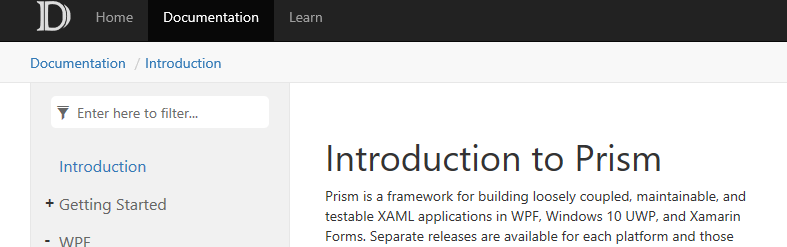
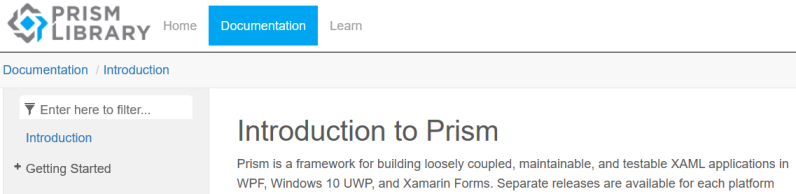
Formatting and updated docs image

diff --git a/docs/xamarin-forms/application-lifecycle.md b/docs/xamarin-forms/application-lifecycle.md
@@ -19,25 +19,25 @@ The first thing you have to do to is to implement the `IApplicationLifecycleAwar
 The following is an example of a ViewModel that implements `IApplicationLifecycleAware`. 
 
 ```csharp
- public class ViewModelExample : ViewModelBase, IApplicationLifecycleAware
+public class ViewModelExample : ViewModelBase, IApplicationLifecycleAware
+{
+    protected INavigationService NavigationService { get; private set; }
+
+    public ViewModelExample(INavigationService navigationService)
     {
-        protected INavigationService NavigationService { get; private set; }
-
-        public ViewModelExample(INavigationService navigationService)
-        {
-            NavigationService = navigationService;
-        }
-
-        public void OnResume()
-        {
-            //Restore the state of your ViewModel.
-        }
-
-        public  void OnSleep()
-        {
-            //Save the state of your ViewModel.
-        }
+        NavigationService = navigationService;
     }
+
+    public void OnResume()
+    {
+        //Restore the state of your ViewModel.
+    }
+
+    public  void OnSleep()
+    {
+        //Save the state of your ViewModel.
+    }
+}
 ```
 
 ## How to handle ALM at Application level
@@ -45,43 +45,41 @@ You can handle ALM events at the __Application__ level by overriding the `OnSlee
 The following is an example of an `App` class with ALM management.
 
 ```csharp
-    public partial class App : PrismApplication
+public partial class App : PrismApplication
+{
+  
+    public App() : this(null) { }
+
+    public App(IPlatformInitializer initializer) : base(initializer) { }
+
+    protected override async void OnInitialized()
     {
-      
-        public App() : this(null) { }
+        InitializeComponent();
 
-        public App(IPlatformInitializer initializer) : base(initializer) { }
-
-        protected override async void OnInitialized()
-        {
-            InitializeComponent();
-
-            await NavigationService.NavigateAsync("NavigationPage/MainPage");
-        }
-
-        protected override void RegisterTypes(IContainerRegistry containerRegistry)
-        {
-            containerRegistry.RegisterForNavigation<NavigationPage>();
-            containerRegistry.RegisterForNavigation<MainPage>();
-        }
-
-        protected override void OnResume()
-        {
-            base.OnResume();
-
-            // TODO: Refresh network data, perform UI updates, and reacquire resources like cameras, I/O devices, etc.
-   
-        }
-
-        protected override void OnSleep()
-        {
-            base.OnSleep();
-
-            // TODO: This is the time to save app data in case the process is terminated.
-            // This is the perfect timing to release exclusive resources (camera, I/O devices, etc...)
-            
-        }
+        await NavigationService.NavigateAsync("NavigationPage/MainPage");
     }
+
+    protected override void RegisterTypes(IContainerRegistry containerRegistry)
+    {
+        containerRegistry.RegisterForNavigation<NavigationPage>();
+        containerRegistry.RegisterForNavigation<MainPage>();
+    }
+
+    protected override void OnResume()
+    {
+        base.OnResume();
+
+        // TODO: Refresh network data, perform UI updates, and reacquire resources like cameras, I/O devices, etc.
+    }
+
+    protected override void OnSleep()
+    {
+        base.OnSleep();
+
+        // TODO: This is the time to save app data in case the process is terminated.
+        // This is the perfect timing to release exclusive resources (camera, I/O devices, etc...)
+    }
+}
 ```
 
 ## Handling app resume and suspend

diff --git a/docs/xamarin-forms/navigation/working-with-tabbedpages.md b/docs/xamarin-forms/navigation/working-with-tabbedpages.md
@@ -1,7 +1,7 @@
 # Working with TabbedPages
 
 ## Selecting the Initial Tab
-When navigating to a TabbedPage, by default the selected tab displayed will always be the first Tab defined for the TabbedPage. In Prism, you could select a different tab by specifying the `KnownNavigationParameters.SelectedTab` constant or the "selctedTab" parameter name as a navigation parameter.
+When navigating to a TabbedPage, by default the selected tab displayed will always be the first Tab defined for the TabbedPage. In Prism, you could select a different tab by specifying the `KnownNavigationParameters.SelectedTab` constant or the `selectedTab` parameter name as a navigation parameter.
 
 ```cs
 //using parameter name
@@ -11,7 +11,7 @@ _navigationService.NavigateAsync("MyTabbedPage?selectedTab=ViewA");
 _navigationService.NavigateAsync($"MyTabbedPage?{KnownNavigationParameters.SelectedTab}=ViewA");
 ```
 
-For tabs that are wrapped inside a NavigationPage, you do not need to change anything. The syntax is the same.
+For tabs that are wrapped inside a `NavigationPage`, you do not need to change anything. The syntax is the same.
 
 ## Selecting a Tab
 You can select a tab programmatically from within a tab's ViewModel by using the `INavigationService.SelectTabAsync` method. In order to use this method, you must add the `Prism.Navigation.TabbedPages` namespace to your ViewModel.
@@ -30,7 +30,7 @@ async void SelectTab(object parameters)
 > [!NOTE]
 > When selecting a tab programmatically both the INavigationAware and IConfirmNavigation interfaces are invoked.
 
-> [!Note]
+> [!NOTE]
 > The target tab and the calling tab must exist within the same TabbedPage instance.
 
 ## Creating Tabs at Runtime
@@ -44,7 +44,7 @@ protected override void RegisterTypes(IContainerRegistry containerRegistry)
     containerRegistry.RegisterForNavigation<ViewB>();
 }
 ```
-Once you have verified your pages have been registered, you can now dynamically create tabs when navigating to a TabbedPage by using the `KnownNavigationParameters.CreateTab` constant or by using the "createTab" parameter name.
+Once you have verified your pages have been registered, you can now dynamically create tabs when navigating to a TabbedPage by using the `KnownNavigationParameters.CreateTab` constant or by using the `createTab` parameter name.
 
 ```cs
 //using parameter name
@@ -60,11 +60,11 @@ To create a tab that wraps a page in a NavigationPage, simply denote this as a n
 _navigationService.NavigateAsync("MyTabbedPage?createTab=NavigationPage|ViewA");
 ```
 
-> [!Note]
+> [!NOTE]
 > Dynamic tab creation is only supported from the querystring at this time, and is not supported if you were to add it to the `INavigationParameters` passed in to `NavigateAsync`.
 
-> [!Note]
-> CarouselPages are not supported
+> [!NOTE]
+> CarouselPages are not supported.
 
 ## Knowing the Selected Tab
 The `IActiveAware` interface allows you to respond to tabs being selected/unselected in a TabbedPage. When a tab is selected and it, or it's ViewModel, implements that `IActiveAware` interface, the `IActiveAware.IsActive` property is set to either `true` if selected, or `false` if not selected.

diff --git a/docs/xamarin-forms/navigation/passing-parameters.md b/docs/xamarin-forms/navigation/passing-parameters.md
@@ -9,8 +9,8 @@ The Prism navigation service also allows you to pass parameters to the target vi
 Creating parameters can be done in a variety of ways.
 
 ```cs
-var navigationParams = new NavigationParameters ();
-navigationParams.Add("model", new Contact ());
+var navigationParams = new NavigationParameters();
+navigationParams.Add("model", new Contact());
 _navigationService.NavigateAsync("MainPage", navigationParams);
 ```
 
@@ -32,7 +32,7 @@ _navigationService.NavigateAsync("MainPage?id=3&name=brian");
 _navigationService.NavigateAsync("MainPage" + navParameters.ToString());
 
 //using both short-syntax parameters and NavigationParameters
-var navParameters = new NavigationParameters ();
+var navParameters = new NavigationParameters();
 navParameters.Add("name", "brian");
 _navigationService.NavigateAsync("MainPage?id=3", navParameters);
 ```
@@ -67,20 +67,20 @@ Example:
 ```cs
 public class ContactPageViewModel : INavigationAware
 {  
-  public void OnNavigatedTo(NavigationParameters parameters)
-  {
+    public void OnNavigatedTo(NavigationParameters parameters)
+    {
 
-  }
+    }
   
-  public void OnNavigatingTo(NavigationParameters parameters)
-  {
+    public void OnNavigatingTo(NavigationParameters parameters)
+    {
     
-  }
+    }
 
-  public void OnNavigatedFrom(NavigationParameters parameters)
-  {
+    public void OnNavigatedFrom(NavigationParameters parameters)
+    {
 
-  }
+    }
 }
 ```
 
@@ -112,10 +112,10 @@ public interface INavigatingAware
     /// <param name="parameters">The navigation parameters.</param>
     /// <remarks>Not called when using device hardware or software back buttons</remarks>
     void OnNavigatingTo(INavigationParameters parameters);
-    }
+}
 ```
 
-In fact, the `INavigationAware` intefrace simply implements both the `INavigatedAware` and `INavigatingAware` interfaces.
+In fact, the `INavigationAware` interface simply implements both the `INavigatedAware` and `INavigatingAware` interfaces.
 
 ```cs
 public interface INavigationAware : INavigatedAware, INavigatingAware
@@ -124,7 +124,8 @@ public interface INavigationAware : INavigatedAware, INavigatingAware
 }
 ```
 
-_Note: **OnNavigatingTo** is not called when using device hardware or software back button._
+> [!NOTE]
+**OnNavigatingTo** is not called when using device hardware or software back button.
 
 ## Reading Parameters
 
@@ -172,4 +173,5 @@ Prism for Xamarin.Forms only support two `NavigationMode` options:
     }
 ```
 
-_Note: `NavigationMode.Forward` and `NavigationMode.Refresh` are not supported in Xamarin.Forms. These are used in UWP only._
+> [!NOTE]
+`NavigationMode.Forward` and `NavigationMode.Refresh` are not supported in Xamarin.Forms. These are used in UWP only.
